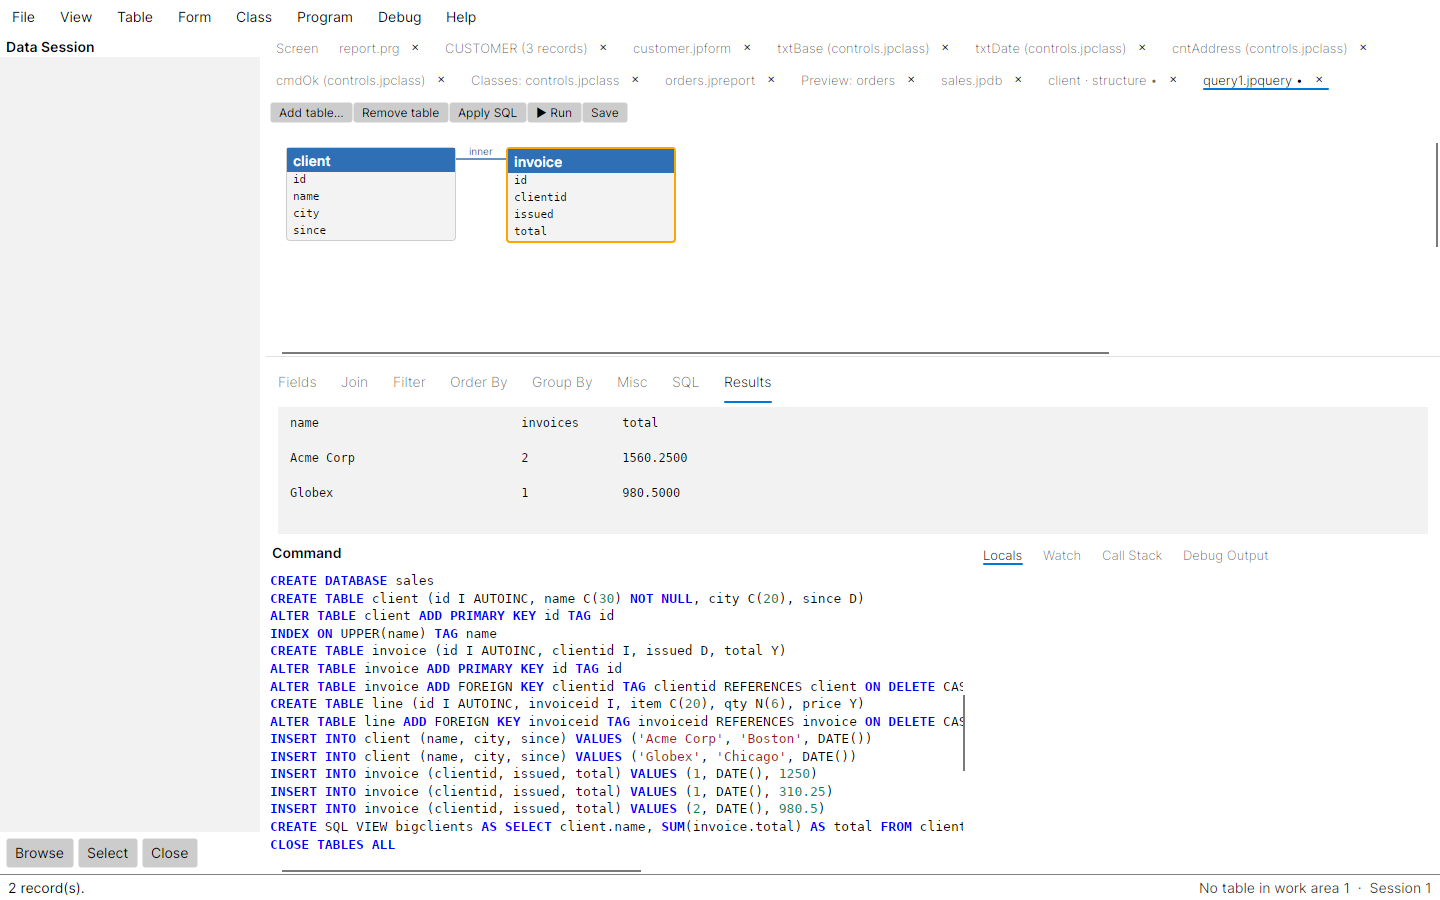
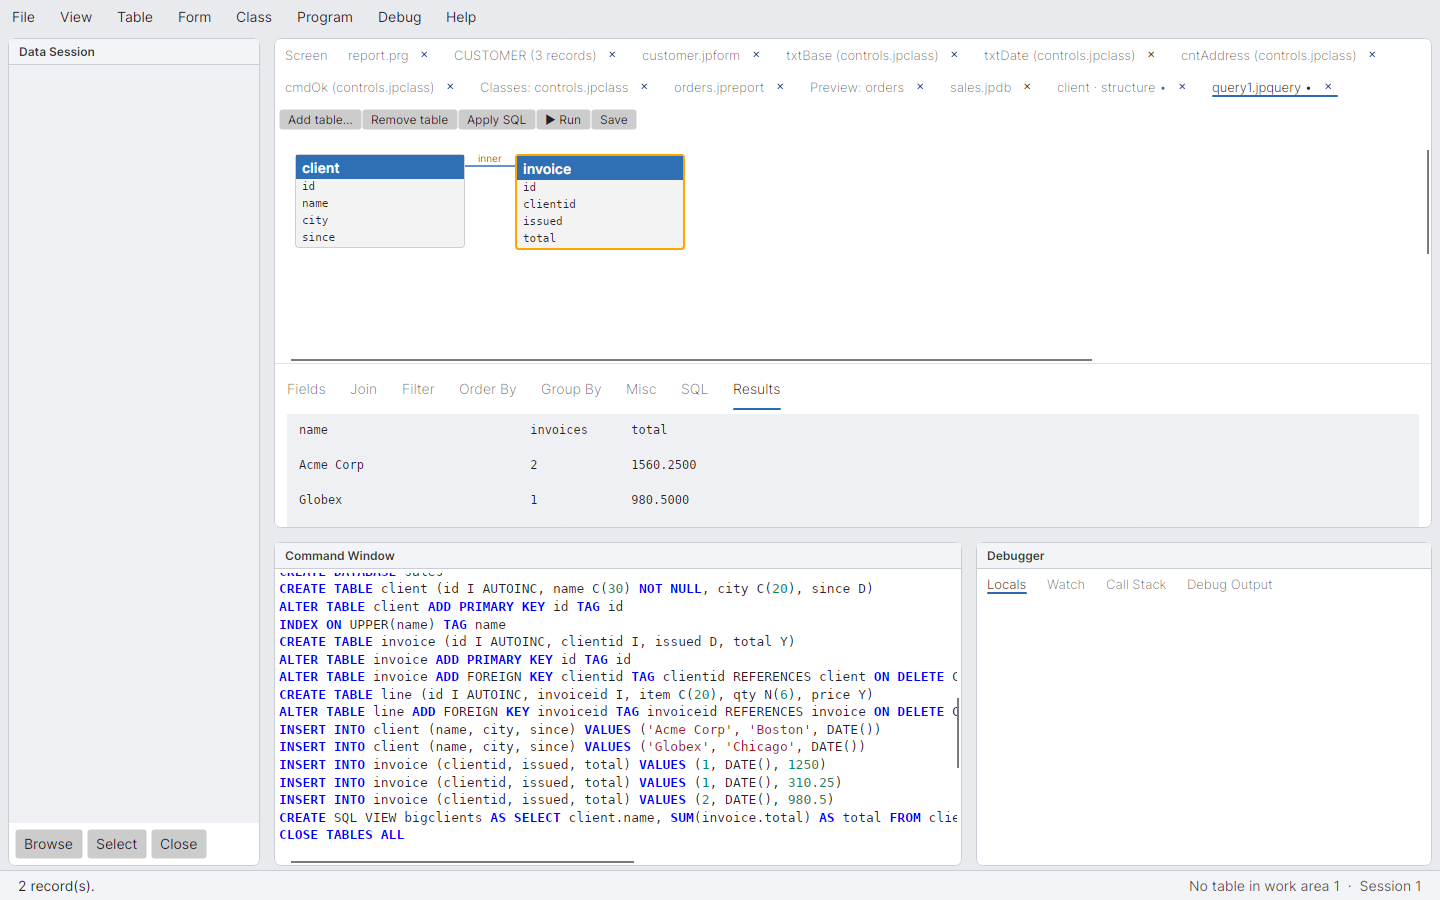
IDE: outlined titled panels, softer dark theme, remembered light/dark choice
Every area of the main window and the Form/Class Designer now sits in its own
outlined card with a title strip. The dark palette is lighter, a light palette
sits beside it, and the View menu choice is saved in ide-settings.json.

Claude-Session: https://claude.ai/code/session_01RDMm86zLe9FgL8KZcMp46j

diff --git a/src/JoePro.Ide/IdeTheme.cs b/src/JoePro.Ide/IdeTheme.cs
@@ -1,0 +1,152 @@
+using System.Text.Json;
+using Avalonia;
+using Avalonia.Controls;
+using Avalonia.Layout;
+using Avalonia.Media;
+using Avalonia.Styling;
+using Avalonia.Themes.Fluent;
+
+namespace JoePro.Ide;
+
+/// <summary>
+/// The IDE's look: a soft dark theme (charcoal, not black) and a light theme, both with outlined, titled panels so
+/// each area of the window stands apart. The chosen theme is remembered between sessions.
+/// </summary>
+public static class IdeTheme
+{
+    // Colors shared by both themes' panels. Keys are resolved dynamically, so switching theme repaints everything.
+    public const string WindowBackground = "JpWindowBackground";
+    public const string PanelBackground = "JpPanelBackground";
+    public const string PanelBorder = "JpPanelBorder";
+    public const string PanelHeader = "JpPanelHeader";
+    public const string PanelHeaderText = "JpPanelHeaderText";
+
+    public static FluentTheme CreateFluent() => new()
+    {
+        Palettes =
+        {
+            // Softer than Fluent's default near-black dark theme.
+            [ThemeVariant.Dark] = new ColorPaletteResources
+            {
+                Accent = Color.Parse("#4C9BE8"),
+                RegionColor = Color.Parse("#2B2E34"),
+                AltHigh = Color.Parse("#2B2E34"),
+                AltMediumHigh = Color.Parse("#33363D"),
+                ChromeLow = Color.Parse("#3A3E46"),
+                ChromeMedium = Color.Parse("#3F434B"),
+                ChromeMediumLow = Color.Parse("#383B42"),
+                ChromeHigh = Color.Parse("#5A5F69"),
+                BaseHigh = Color.Parse("#E6E8EC"),
+                BaseMediumHigh = Color.Parse("#C9CDD4"),
+                BaseMedium = Color.Parse("#A4A9B2"),
+                ListLow = Color.Parse("#3A3E46"),
+                ListMedium = Color.Parse("#454A53"),
+            },
+            [ThemeVariant.Light] = new ColorPaletteResources
+            {
+                Accent = Color.Parse("#2B6CB0"),
+                RegionColor = Color.Parse("#F3F4F6"),
+                AltHigh = Color.Parse("#FFFFFF"),
+                ChromeLow = Color.Parse("#E9EBEF"),
+                ChromeMedium = Color.Parse("#E2E5EA"),
+                ChromeMediumLow = Color.Parse("#EEF0F3"),
+                BaseHigh = Color.Parse("#1F2328"),
+                ListLow = Color.Parse("#EEF1F5"),
+                ListMedium = Color.Parse("#E1E6ED"),
+            },
+        },
+    };
+
+    public static void AddResources(Application app)
+    {
+        var dark = new ResourceDictionary
+        {
+            [WindowBackground] = new SolidColorBrush(Color.Parse("#25282D")),
+            [PanelBackground] = new SolidColorBrush(Color.Parse("#2E3137")),
+            [PanelBorder] = new SolidColorBrush(Color.Parse("#474C55")),
+            [PanelHeader] = new SolidColorBrush(Color.Parse("#373B42")),
+            [PanelHeaderText] = new SolidColorBrush(Color.Parse("#D6D9DE")),
+        };
+        var light = new ResourceDictionary
+        {
+            [WindowBackground] = new SolidColorBrush(Color.Parse("#E8EAEE")),
+            [PanelBackground] = new SolidColorBrush(Color.Parse("#FFFFFF")),
+            [PanelBorder] = new SolidColorBrush(Color.Parse("#C9CED6")),
+            [PanelHeader] = new SolidColorBrush(Color.Parse("#F2F4F7")),
+            [PanelHeaderText] = new SolidColorBrush(Color.Parse("#333840")),
+        };
+        app.Resources.ThemeDictionaries[ThemeVariant.Dark] = dark;
+        app.Resources.ThemeDictionaries[ThemeVariant.Light] = light;
+    }
+
+    /// <summary>An outlined panel with a title strip: how the IDE separates its areas.</summary>
+    public static Border Card(string? title, Control content, Control? actions = null) =>
+        Card(title == null ? null : new TextBlock { Text = title }, content, actions);
+
+    /// <summary>An outlined panel whose title strip holds a control (a title that changes, say).</summary>
+    public static Border Card(TextBlock? titleText, Control content, Control? actions = null)
+    {
+        var body = new DockPanel();
+        if (titleText is { Text: { Length: > 0 } name } && string.IsNullOrWhiteSpace(Avalonia.Automation.AutomationProperties.GetName(content)))
+            Avalonia.Automation.AutomationProperties.SetName(content, name); // a list or editor is announced by its panel's title
+        if (titleText != null)
+        {
+            var text = titleText;
+            text.FontWeight = FontWeight.SemiBold;
+            text.FontSize = 12;
+            text.Margin = new Thickness(0);
+            text.VerticalAlignment = VerticalAlignment.Center;
+            text.Bind(TextBlock.ForegroundProperty, text.GetResourceObservable(PanelHeaderText));
+            var strip = new DockPanel { Children = { text } };
+            if (actions != null)
+            {
+                DockPanel.SetDock(actions, Dock.Right);
+                strip.Children.Insert(0, actions);
+            }
+            var header = new Border { Child = strip, Padding = new Thickness(10, 5), BorderThickness = new Thickness(0, 0, 0, 1) };
+            header.Bind(Border.BackgroundProperty, header.GetResourceObservable(PanelHeader));
+            header.Bind(Border.BorderBrushProperty, header.GetResourceObservable(PanelBorder));
+            DockPanel.SetDock(header, Dock.Top);
+            body.Children.Add(header);
+        }
+        body.Children.Add(content);
+        var card = new Border { Child = body, BorderThickness = new Thickness(1), CornerRadius = new CornerRadius(6), ClipToBounds = true, Margin = new Thickness(4) };
+        card.Bind(Border.BackgroundProperty, card.GetResourceObservable(PanelBackground));
+        card.Bind(Border.BorderBrushProperty, card.GetResourceObservable(PanelBorder));
+        return card;
+    }
+
+    // ---- The remembered choice -----------------------------------------------------------------
+
+    /// <summary>Where the IDE keeps its settings (tests point it elsewhere).</summary>
+    public static string SettingsPath { get; set; } =
+        Path.Combine(Environment.GetFolderPath(Environment.SpecialFolder.ApplicationData), "Joe Pro", "ide-settings.json");
+
+    /// <summary>The saved theme: Light, Dark, or null to follow the system.</summary>
+    public static ThemeVariant LoadVariant()
+    {
+        try
+        {
+            if (!File.Exists(SettingsPath)) return ThemeVariant.Default;
+            using var doc = JsonDocument.Parse(File.ReadAllText(SettingsPath));
+            return doc.RootElement.TryGetProperty("theme", out var t) ? t.GetString() switch
+            {
+                "light" => ThemeVariant.Light,
+                "dark" => ThemeVariant.Dark,
+                _ => ThemeVariant.Default,
+            } : ThemeVariant.Default;
+        }
+        catch (Exception ex) when (ex is IOException or JsonException or UnauthorizedAccessException) { return ThemeVariant.Default; }
+    }
+
+    public static void SaveVariant(ThemeVariant v)
+    {
+        try
+        {
+            Directory.CreateDirectory(Path.GetDirectoryName(SettingsPath)!);
+            var name = v == ThemeVariant.Light ? "light" : v == ThemeVariant.Dark ? "dark" : "system";
+            File.WriteAllText(SettingsPath, JsonSerializer.Serialize(new Dictionary<string, string> { ["theme"] = name }, new JsonSerializerOptions { WriteIndented = true }));
+        }
+        catch (Exception ex) when (ex is IOException or UnauthorizedAccessException) { } // the choice still applies to this session
+    }
+}

diff --git a/src/JoePro.Ide/MainWindow.cs b/src/JoePro.Ide/MainWindow.cs
@@ -58,33 +58,31 @@ public sealed class MainWindow : Window
         BuildActions();
         Palette = new CommandPalette(_actions, Run);
 
-        var commandDock = new DockPanel();
-        var commandHeader = new TextBlock { Text = "Command", FontWeight = FontWeight.SemiBold, Margin = new Thickness(6, 4) };
-        DockPanel.SetDock(commandHeader, Dock.Top);
-        commandDock.Children.Add(commandHeader);
-        commandDock.Children.Add(CommandWindow);
+        // Each area is an outlined, titled panel so the window reads as distinct parts.
+        var commandCard = Strings.T("Command Window") is var cw ? IdeTheme.Card(cw, CommandWindow) : null!;
+        var debuggerCard = IdeTheme.Card(Strings.T("Debugger"), Debugger.Panel);
         // Bottom: Command Window beside the debugger panes.
         var commandPane = new Grid { ColumnDefinitions = new ColumnDefinitions("3*,Auto,2*") };
-        commandPane.Children.Add(commandDock);
-        var bottomSplit = new GridSplitter { Width = 5, ResizeDirection = GridResizeDirection.Columns, VerticalAlignment = VerticalAlignment.Stretch };
+        commandPane.Children.Add(commandCard);
+        var bottomSplit = new GridSplitter { Width = 4, ResizeDirection = GridResizeDirection.Columns, VerticalAlignment = VerticalAlignment.Stretch, Background = Brushes.Transparent };
         Grid.SetColumn(bottomSplit, 1);
         commandPane.Children.Add(bottomSplit);
-        Grid.SetColumn(Debugger.Panel, 2);
-        commandPane.Children.Add(Debugger.Panel);
+        Grid.SetColumn(debuggerCard, 2);
+        commandPane.Children.Add(debuggerCard);
 
         // Center: documents over the Command Window, separated by a splitter.
         var center = new Grid { RowDefinitions = new RowDefinitions("3*,Auto,2*") };
-        center.Children.Add(Documents);
-        var hSplit = new GridSplitter { Height = 5, ResizeDirection = GridResizeDirection.Rows, HorizontalAlignment = HorizontalAlignment.Stretch };
+        center.Children.Add(IdeTheme.Card((string?)null, Documents));
+        var hSplit = new GridSplitter { Height = 4, ResizeDirection = GridResizeDirection.Rows, HorizontalAlignment = HorizontalAlignment.Stretch, Background = Brushes.Transparent };
         Grid.SetRow(hSplit, 1);
         center.Children.Add(hSplit);
         Grid.SetRow(commandPane, 2);
         center.Children.Add(commandPane);
 
         // Left: Data Session panel.
-        var body = new Grid { ColumnDefinitions = new ColumnDefinitions("260,Auto,*") };
-        body.Children.Add(DataSession);
-        var vSplit = new GridSplitter { Width = 5, ResizeDirection = GridResizeDirection.Columns, VerticalAlignment = VerticalAlignment.Stretch };
+        var body = new Grid { ColumnDefinitions = new ColumnDefinitions("260,Auto,*"), Margin = new Thickness(4, 2, 4, 0) };
+        body.Children.Add(IdeTheme.Card(Strings.T("Data Session"), DataSession));
+        var vSplit = new GridSplitter { Width = 4, ResizeDirection = GridResizeDirection.Columns, VerticalAlignment = VerticalAlignment.Stretch, Background = Brushes.Transparent };
         Grid.SetColumn(vSplit, 1);
         body.Children.Add(vSplit);
         Grid.SetColumn(center, 2);
@@ -92,7 +90,10 @@ public sealed class MainWindow : Window
 
         var statusBar = new DockPanel { Children = { _position, _status } };
         DockPanel.SetDock(_position, Dock.Right);
-        var statusBorder = new Border { Child = statusBar, BorderThickness = new Thickness(0, 1, 0, 0), BorderBrush = Brushes.Gray, Padding = new Thickness(0, 2) };
+        var statusBorder = new Border { Child = statusBar, BorderThickness = new Thickness(0, 1, 0, 0), Padding = new Thickness(10, 4) };
+        statusBorder.Bind(Border.BorderBrushProperty, statusBorder.GetResourceObservable(IdeTheme.PanelBorder));
+        statusBorder.Bind(Border.BackgroundProperty, statusBorder.GetResourceObservable(IdeTheme.PanelHeader));
+        this.Bind(BackgroundProperty, this.GetResourceObservable(IdeTheme.WindowBackground));
 
         var root = new DockPanel();
         var menu = BuildMenu();
@@ -1076,6 +1077,7 @@ public sealed class MainWindow : Window
     private static void SetTheme(ThemeVariant v)
     {
         if (Application.Current != null) Application.Current.RequestedThemeVariant = v;
+        IdeTheme.SaveVariant(v);
     }
 
     private PaletteAction Action(string title) => _actions.First(a => a.Title == title);

diff --git a/src/JoePro.Ide/FormDesigner.cs b/src/JoePro.Ide/FormDesigner.cs
@@ -101,18 +101,11 @@ public sealed class FormDesigner : UserControl
         _toolbox.SelectedIndex = 0;
         _toolbox.SelectionChanged += (_, _) => ArmedTool = _toolbox.SelectedItem is ListBoxItem { Tag: string t } && t != PointerTool ? t : null;
         _dataEnvironment.DoubleTapped += (_, _) => AddFromDataEnvironment();
-        var left = new DockPanel { Width = 170 };
-        var toolboxHeader = Header("Toolbox");
-        DockPanel.SetDock(toolboxHeader, Dock.Top);
-        left.Children.Add(toolboxHeader);
-        var deHeader = Header("Data environment");
-        var dePanel = new DockPanel { Height = 160 };
-        DockPanel.SetDock(deHeader, Dock.Top);
-        dePanel.Children.Add(deHeader);
-        dePanel.Children.Add(_dataEnvironment);
-        DockPanel.SetDock(dePanel, Dock.Bottom);
-        left.Children.Add(dePanel);
-        left.Children.Add(_toolbox);
+        var left = new Grid { Width = 180, RowDefinitions = new RowDefinitions("*,180") };
+        left.Children.Add(IdeTheme.Card(Strings.T("Toolbox"), _toolbox));
+        var deCard = IdeTheme.Card(Strings.T("Data environment"), _dataEnvironment);
+        Grid.SetRow(deCard, 1);
+        left.Children.Add(deCard);
 
         // Design surface (center): the rendered form, adorners and an input overlay on top.
         var surface = new Panel { Children = { _renderHost } };
@@ -135,14 +128,10 @@ public sealed class FormDesigner : UserControl
         _overlay.PointerReleased += OnPointerReleased;
         _overlay.KeyDown += (_, e) => OnKey(e);
 
-        var codeHeader = new DockPanel { Children = { _codeTitle } };
-        var codePane = new DockPanel();
-        DockPanel.SetDock(codeHeader, Dock.Top);
-        codePane.Children.Add(codeHeader);
-        codePane.Children.Add(_code);
+        var codePane = IdeTheme.Card(_codeTitle, _code);
         _centerGrid = new Grid { RowDefinitions = new RowDefinitions("3*,Auto,0") };
-        _centerGrid.Children.Add(scroller);
-        var split = new GridSplitter { Height = 5, ResizeDirection = GridResizeDirection.Rows };
+        _centerGrid.Children.Add(IdeTheme.Card(Strings.T(className != null ? "Class" : "Form"), scroller));
+        var split = new GridSplitter { Height = 4, ResizeDirection = GridResizeDirection.Rows, Background = Brushes.Transparent };
         Grid.SetRow(split, 1);
         _centerGrid.Children.Add(split);
         Grid.SetRow(codePane, 2);
@@ -153,10 +142,11 @@ public sealed class FormDesigner : UserControl
         body.Children.Add(left);
         Grid.SetColumn(_centerGrid, 1);
         body.Children.Add(_centerGrid);
-        var right = new Border { Child = Properties, BorderThickness = new Thickness(1, 0, 0, 0), BorderBrush = Brushes.Gray };
+        var right = IdeTheme.Card(Strings.T("Properties"), Properties);
         Grid.SetColumn(right, 2);
         body.Children.Add(right);
-        var root = new DockPanel();
+        var root = new DockPanel { Margin = new Thickness(2) };
+        toolbar.Margin = new Thickness(4, 4, 4, 0);
         DockPanel.SetDock(toolbar, Dock.Top);
         root.Children.Add(toolbar);
         root.Children.Add(body);
@@ -167,7 +157,6 @@ public sealed class FormDesigner : UserControl
         Select([""]);
     }
 
-    private static TextBlock Header(string text) => new() { Text = text, FontWeight = FontWeight.SemiBold, Margin = new Thickness(6, 4) };
 
     public DesignSession Session { get; }
     /// <summary>True in the Class Designer (a class of a .jpclass library), false in the Form Designer.</summary>

diff --git a/src/JoePro.Ide/DataSessionPanel.cs b/src/JoePro.Ide/DataSessionPanel.cs
@@ -21,13 +21,10 @@ public sealed class DataSessionPanel : UserControl
         select.Click += (_, _) => { if (Selected is { } w) run($"SELECT {w.Number}"); };
         var close = new Button { Content = "Close" };
         close.Click += (_, _) => { if (Selected is { } w) run($"USE IN {w.Number}"); };
-        var header = new TextBlock { Text = "Data Session", FontWeight = FontWeight.SemiBold, Margin = new Thickness(6, 6, 6, 2) };
         var buttons = new WrapPanel { Margin = new Thickness(4), Children = { browse, select, close } };
         foreach (var b in buttons.Children.OfType<Button>()) b.Margin = new Thickness(2);
         var dock = new DockPanel();
-        DockPanel.SetDock(header, Dock.Top);
         DockPanel.SetDock(buttons, Dock.Bottom);
-        dock.Children.Add(header);
         dock.Children.Add(buttons);
         dock.Children.Add(List);
         Content = dock;

diff --git a/src/JoePro.Ide/DocumentTabs.cs b/src/JoePro.Ide/DocumentTabs.cs
@@ -162,7 +162,13 @@ public sealed class ScreenTab : TabItem
             FontFamily = new FontFamily("Cascadia Mono,Consolas,Menlo,DejaVu Sans Mono,monospace"),
             FontSize = 13,
             BorderThickness = new Thickness(0),
+            Padding = new Thickness(10, 8),
         };
+        // The output sits on its panel's background in every state (Fluent otherwise paints a darker box when focused).
+        foreach (var key in new[] { "TextControlBackground", "TextControlBackgroundPointerOver", "TextControlBackgroundFocused", "TextControlBackgroundDisabled" })
+            Box.Resources[key] = Brushes.Transparent;
+        Box.Resources["TextControlBorderBrushFocused"] = Brushes.Transparent;
+        Box.Resources["TextControlBorderBrushPointerOver"] = Brushes.Transparent;
         Content = Box;
         var pending = false;
         screen.Changed += () =>

diff --git a/src/JoePro.Ide/Strings.cs b/src/JoePro.Ide/Strings.cs
@@ -22,8 +22,13 @@ public static class Strings
     static Strings() => Use(Environment.GetEnvironmentVariable("JOEPRO_UI_CULTURE") is { Length: > 0 } c ? c : CultureInfo.CurrentUICulture.Name);
 
     /// <summary>The translation of <paramref name="english"/> in the current culture (the English text when there is none).</summary>
+    /// <summary>Every text the IDE has asked to translate (for catalog checks).</summary>
+    public static IReadOnlyCollection<string> Requested => _requested;
+    private static readonly HashSet<string> _requested = new();
+
     public static string T(string english)
     {
+        lock (_requested) _requested.Add(english);
         if (Culture == PseudoLocale) return Pseudo(english);
         return _catalog.TryGetValue(english, out var t) && t.Length > 0 ? t : english;
     }

diff --git a/src/JoePro.Ide/App.cs b/src/JoePro.Ide/App.cs
@@ -13,8 +13,9 @@ public sealed class App : Application
 
     public override void Initialize()
     {
-        RequestedThemeVariant = ThemeVariant.Default; // follow the OS light/dark setting
-        Styles.Add(new FluentTheme());
+        RequestedThemeVariant = IdeTheme.LoadVariant(); // the theme chosen last time (View › Light/Dark/System), else the OS setting
+        Styles.Add(IdeTheme.CreateFluent());
+        IdeTheme.AddResources(this);
         var baseUri = new Uri("avares://JoePro.Ide/");
         Styles.Add(new StyleInclude(baseUri) { Source = new Uri("avares://Avalonia.Controls.DataGrid/Themes/Fluent.xaml") });
         Styles.Add(new StyleInclude(baseUri) { Source = new Uri("avares://AvaloniaEdit/Themes/Fluent/AvaloniaEdit.xaml") });

diff --git a/tests/JoePro.Ui.Tests/AccessibilityTests.cs b/tests/JoePro.Ui.Tests/AccessibilityTests.cs
@@ -163,7 +163,7 @@ public class AccessibilityTests : IDisposable
             var english = MenuHeaders(Open());
             var catalog = Strings.Catalog("de");
             var palette = _window!.Palette.Actions.Select(a => a.Title).ToList();
-            var known = english.Concat(palette).ToHashSet();
+            var known = english.Concat(palette).Concat(Strings.Requested).ToHashSet();
             Assert.Empty(english.Concat(palette).Where(k => !catalog.ContainsKey(k)));
             Assert.Empty(catalog.Keys.Where(k => !known.Contains(k)));   // no stale entries
             Assert.All(catalog, kv => Assert.Equal(kv.Key.Count(ch => ch == '_'), kv.Value.Count(ch => ch == '_')));

diff --git a/tools/JoePro.Screenshots/Program.cs b/tools/JoePro.Screenshots/Program.cs
@@ -249,7 +249,8 @@ sealed class ShotApp : Application
 {
     public override void Initialize()
     {
-        Styles.Add(new FluentTheme());
+        Styles.Add(JoePro.Ide.IdeTheme.CreateFluent());
+        JoePro.Ide.IdeTheme.AddResources(this);
         var b = new Uri("avares://JoePro.Screenshots/");
         Styles.Add(new StyleInclude(b) { Source = new Uri("avares://Avalonia.Controls.DataGrid/Themes/Fluent.xaml") });
         Styles.Add(new StyleInclude(b) { Source = new Uri("avares://AvaloniaEdit/Themes/Fluent/AvaloniaEdit.xaml") });
